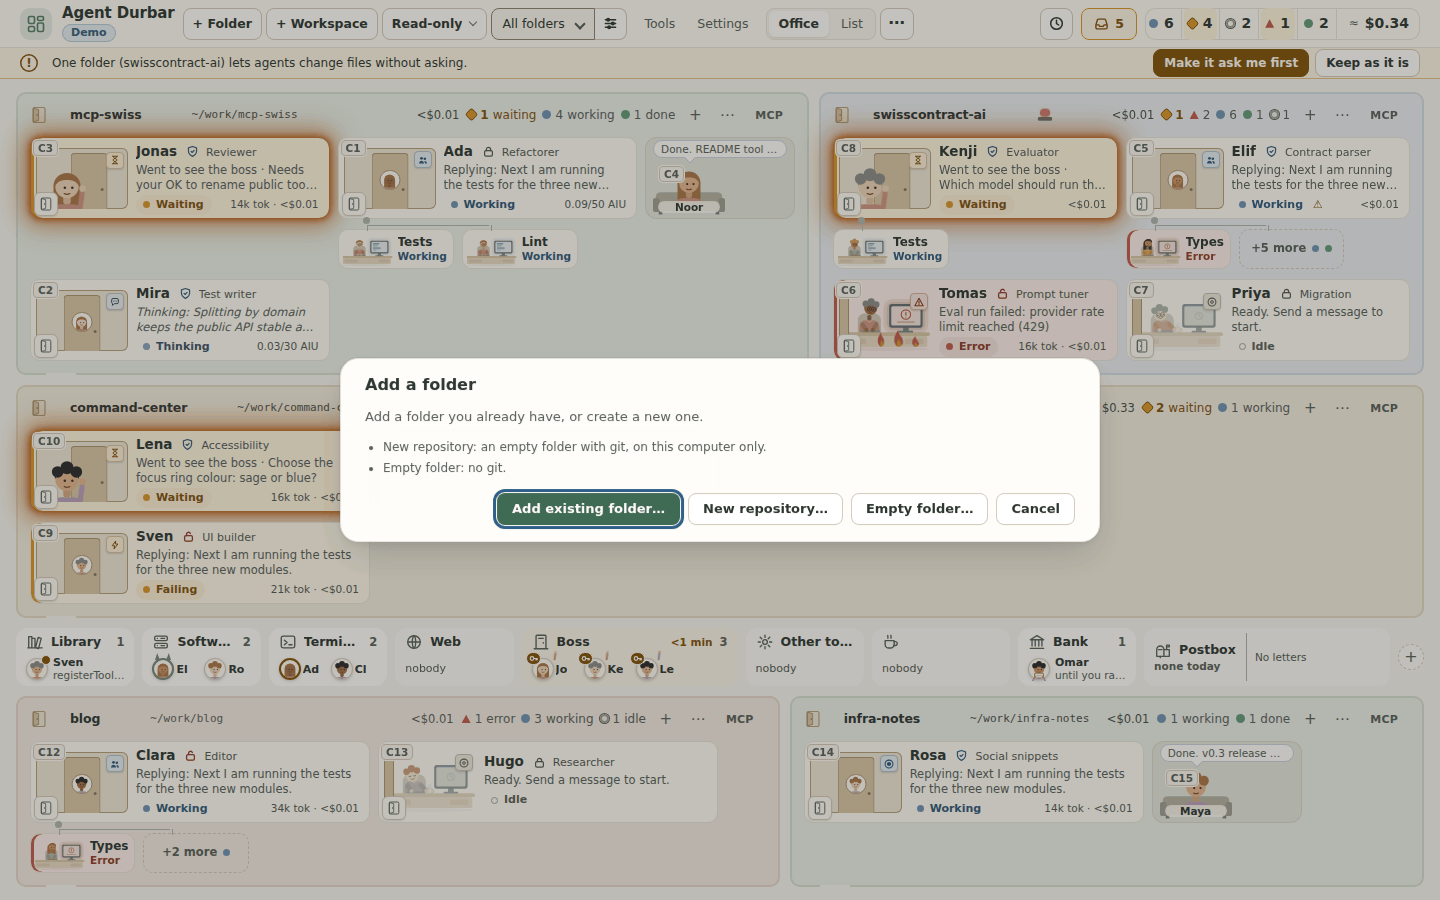
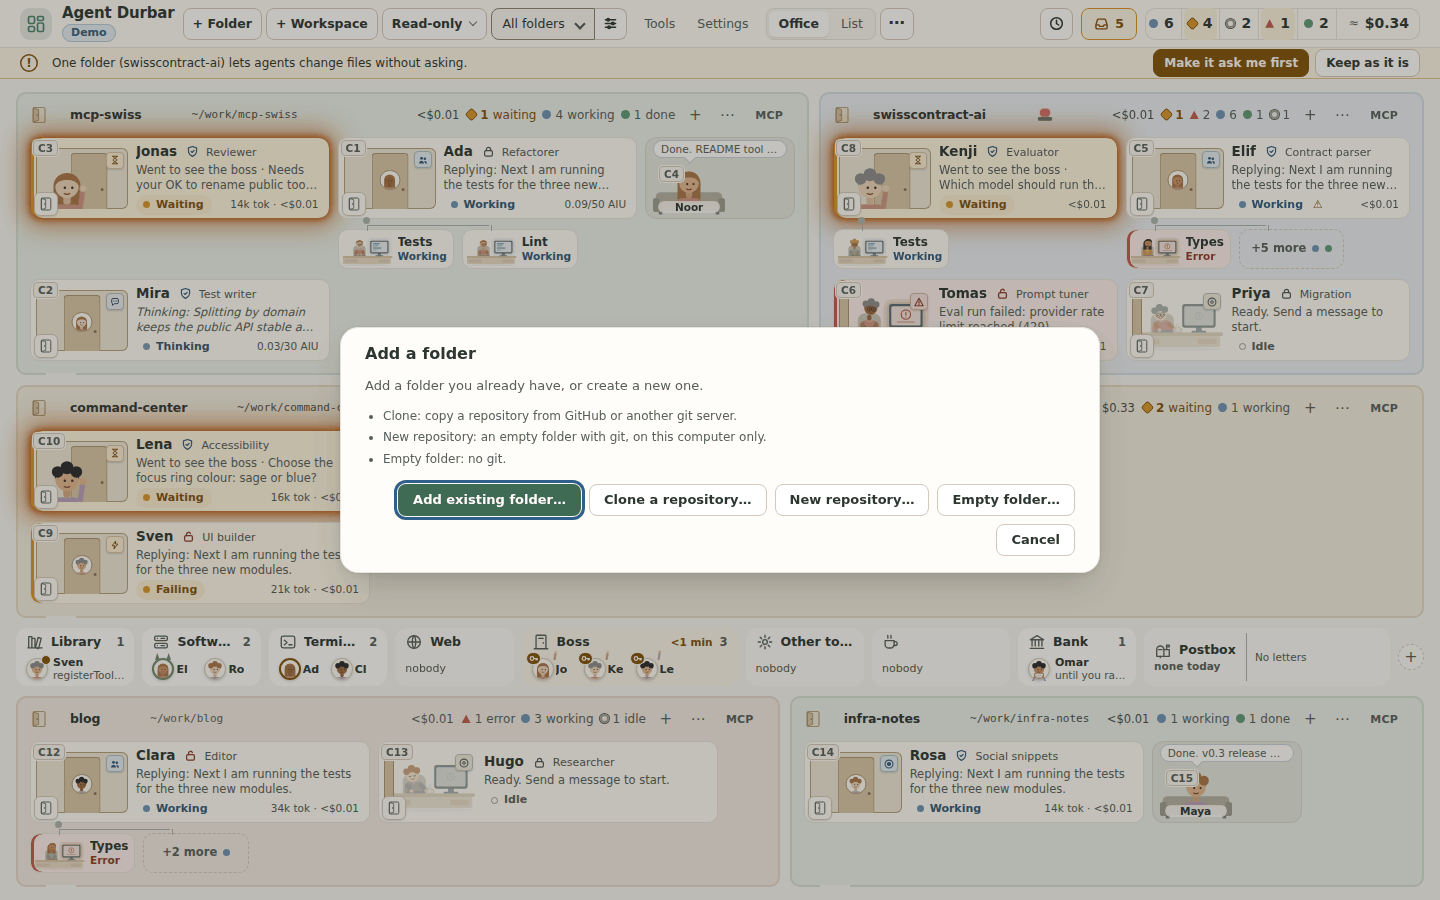
093: shots-093 waits for dialogs to finish fading in; pictures retaken
- the refused-URL, progress and Allow all pictures are taken once the dialog's
  animations have finished (the first refused-URL picture was mid-fade)
- the clone flow focuses + Folder as a mouse click does, so focus can go back to it
- page-side checks compare the exact text instead of building regexes from strings
- npm run shots:docs -- --only shots-093: 093-choice and 093-name-refused retaken,
  093-clone-url-refused, 093-clone-progress, 093-clone-allow added

Claude-Session: https://claude.ai/code/session_01Mj63agcLftbxvrSoGqM1Fp

Changed region(s): [[0.2188, 0.3422, 0.7812, 0.6533]]

diff --git a/scripts/shots-093.js b/scripts/shots-093.js
@@ -175,11 +175,15 @@ module.exports = async (ctx) => {
 
     // ==== phase 2: clone ====
     const pmode = (v) => js(`(()=>{const s=document.getElementById('permMode');s.value=${jsLiteral(v)};s.dispatchEvent(new Event('change',{bubbles:true}));return true})()`);
-    const errIs = (re) => until(`(()=>{const e=document.getElementById('mdErr');return !!e&&!e.hidden&&${re}.test(e.textContent)})()`, 6000);
+    /* the exact reason under the field (text compared as text: no regex built from page strings) */
+    const errIs = (text) => until(`(()=>{const e=document.getElementById('mdErr');return !!e&&!e.hidden&&e.textContent===${jsLiteral(text)}})()`, 6000);
+    const WAITING = 'Still waiting for the server. If your ssh or sign-in helper opened a window, answer it there; or press Cancel.';
     const prog = () => js(`(()=>{const d=document.getElementById('nfProg');if(!d)return null;const q=s=>(d.querySelector(s)||{}).textContent||'';const w=d.querySelector('#nfPW');return {title:q('#nfPT'),phase:q('#nfPS'),pct:q('#nfPP'),log:q('#nfPL'),time:q('#nfPE'),waiting:w&&!w.hidden?w.textContent:'',role:d.querySelector('.dlg').getAttribute('role'),modal:d.querySelector('.dlg').getAttribute('aria-modal'),live:d.querySelector('#nfPS').getAttribute('aria-live'),focus:(document.activeElement||{}).id||''}})()`);
     const progSmall = () => js(`[...document.querySelectorAll('#nfProg .dlg *')].filter(e=>e.childNodes.length&&[...e.childNodes].some(n=>n.nodeType===3&&n.textContent.trim())&&e.getClientRects().length).filter(e=>parseFloat(getComputedStyle(e).fontSize)<10.5).map(e=>e.tagName+':'+e.textContent.slice(0,20))`);
     const toastHas = (t) => until(`[...document.querySelectorAll('#toasts .toast')].some(x=>x.textContent.includes(${jsLiteral(t)}))`, 6000);
-    const startClone = async () => { await js(`document.getElementById('addFolder').click()`); await open('Add a folder'); await press('Clone a repository…'); return open('Clone a repository'); };
+    /* a dialog that was just opened again fades in (160 ms): picture it once its animations have finished */
+    const still = (sel) => until(`(()=>{const d=document.querySelector(${jsLiteral(sel)});return !!d&&d.getAnimations({subtree:true}).every(a=>a.playState==='finished'||a.playState==='idle')})()`, 4000);
+    const startClone = async () => { await js(`(()=>{const b=document.getElementById('addFolder');b.focus();b.click();return true})()`); /* a mouse click focuses the button too */ await open('Add a folder'); await press('Clone a repository…'); return open('Clone a repository'); };
     const typeUrl = async (u) => { await typeName(u); await press('Next'); };
 
     // ---- a refused URL keeps the text and the reason; nothing else is asked ----
@@ -187,12 +191,13 @@ module.exports = async (ctx) => {
     check(await startClone(), `${at}: Clone a repository… opens the URL step`);
     check(JSON.stringify(await buttons()) === JSON.stringify(['Cancel', 'Next']), `${at}: the URL step's buttons: ${JSON.stringify(await buttons())}`);
     await typeUrl('file:///etc');
-    check(await errIs('/Use an https:\/\/ or ssh address \(for example git@github\.com:owner\/repo\.git\)\./'), `${at}: file:// is refused with the reason`);
+    check(await errIs('Use an https:// or ssh address (for example git@github.com:owner/repo.git).'), `${at}: file:// is refused with the reason`);
     check((await js(`document.getElementById('mdIn').value`)) === 'file:///etc' && (await H.text('#modeDlg #mdT')) === 'Clone a repository', `${at}: the URL is kept, still the URL step`);
     check((await fits()).length === 0 && (await smallText()).length === 0, `${at}: URL step: buttons fit, text at least 10.5px`);
+    check(await still('#modeDlg .dlg'), `${at}: the URL step has finished fading in`);
     await H.shot(path.join(OUT, `093-clone-url-refused-${at}.png`), { tag: 'shots-093' });
     await typeUrl('https://lena:hunter2@github.com/lena/shop.git');
-    check(await errIs('/Remove the password from the address\. Durbar uses your own git credentials\./'), `${at}: a password is refused`);
+    check(await errIs('Remove the password from the address. Durbar uses your own git credentials.'), `${at}: a password is refused`);
     check((await js(`window.__simNewFolderLast`)) === null, `${at}: nothing was sent to create`);
     await esc();
     check(await closed(), `${at}: Escape at the URL step`);
@@ -212,6 +217,7 @@ module.exports = async (ctx) => {
     check(pv && pv.role === 'dialog' && pv.modal === 'true' && pv.live === 'polite' && pv.focus === 'nfPC', `${at}: a modal dialog, the phase in a live region, focus on Cancel: ${JSON.stringify(pv)}`);
     const ps = await progSmall();
     check(ps.length === 0, `${at}: progress text at least 10.5px: ${JSON.stringify(ps)}`);
+    check(await still('#nfProg .dlg'), `${at}: the progress dialog has finished fading in`);
     await H.shot(path.join(OUT, `093-clone-progress-${at}.png`), { tag: 'shots-093' });
     await esc();
     check(await until(`!document.getElementById('nfProg')`, 8000), `${at}: Escape cancels the clone and closes the dialog`);
@@ -226,7 +232,7 @@ module.exports = async (ctx) => {
     await typeUrl('git@github.com:lena/shop.git');
     await until(`((document.querySelector('#modeDlg .dbtn .primary')||{}).textContent||'')==='Clone'`, 6000);
     await press('Clone');
-    check(await until(`(()=>{const w=document.querySelector('#nfProg #nfPW');return !!w&&!w.hidden&&/^Still waiting for the server\. If your ssh or sign-in helper opened a window, answer it there; or press Cancel\.$/.test(w.textContent)})()`, 8000), `${at}: the still-waiting line`);
+    check(await until(`(()=>{const w=document.querySelector('#nfProg #nfPW');return !!w&&!w.hidden&&w.textContent===${jsLiteral(WAITING)}})()`, 8000), `${at}: the still-waiting line`);
     await js(`document.getElementById('nfPC').click()`);
     check(await until(`!document.getElementById('nfProg')`, 8000) && await toastHas('Cancelled. Nothing was kept.'), `${at}: Cancel ends a waiting clone`);
     await js(`window.__simCloneWaiting=false;true`);
@@ -248,6 +254,7 @@ module.exports = async (ctx) => {
     check(await open('Allow all for the repository you clone next?'), `${at}: Allow all asks after the URL`);
     const body = await H.text('#modeDlg #mdB');
     check(/^This code comes from github\.com; agents can run it without asking\. Edits, shell commands/.test(body) && !/lena/.test(body), `${at}: the host sentence, host only: ${body}`);
+    check(await still('#modeDlg .dlg'), `${at}: the confirmation has finished fading in`);
     await H.shot(path.join(OUT, `093-clone-allow-${at}.png`), { tag: 'shots-093' });
     await press('Allow all');
     check(await until(`((document.querySelector('#modeDlg .dbtn .primary')||{}).textContent||'')==='Clone'`, 6000) && /It starts in Allow all\./.test(await H.text('#modeDlg #mdB')), `${at}: the name step says Allow all`);
